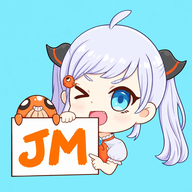
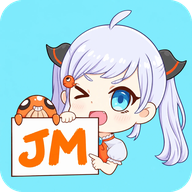
安卓工程并入仓库后从 android/ 构建；全部图标统一成蓝底 JM 娘小圆角；版本 1.1.0

diff --git a/pet_src/make_icons.py b/pet_src/make_icons.py
@@ -2,9 +2,10 @@
 
   python make_icons.py
 
-网页：../web/icon-192.png、icon-512.png、icon-maskable-512.png、apple-touch-icon.png
-安卓：D:\\androidbuild\\jmapp 里的 mipmap-*/ic_launcher*.png，
-      自适应图标的背景色写进 values/ic_launcher_background.xml（取原图角上的天蓝色）
+网页：../web/icon-192.png、icon-512.png（四角小圆角）、icon-maskable-512.png、apple-touch-icon.png（方的，系统自己裁）
+安卓：../android/app/src/main/res/mipmap-*/ic_launcher*.png，四角小圆角。
+      不用自适应图标：那样形状由桌面决定（常被裁成圆形），和电脑版、安装包的圆角方图对不上
+电脑版的 exe、安装包图标由 desktop/build.py 从 icon-512.png 生成，所以也是同一个圆角图
 """
 from pathlib import Path
 
@@ -12,7 +13,9 @@ from PIL import Image, ImageDraw
 
 HERE = Path(__file__).resolve().parent
 WEB = HERE.parent / 'web'
-RES = Path(r'D:\androidbuild\jmapp\app\src\main\res')
+RES = HERE.parent / 'android' / 'app' / 'src' / 'main' / 'res'
+# 圆角半径占边长的比例：小圆角
+RADIUS = 0.12
 
 src = Image.open(HERE / 'icon_src.webp').convert('RGBA')
 # 背景色：四个角取平均，自适应图标和留边的地方都用它，接缝看不出来
@@ -32,7 +35,7 @@ def compose(size, scale=1.0, shape=None):
         if shape == 'circle':
             d.ellipse((0, 0, ss - 1, ss - 1), fill=255)
         else:
-            d.rounded_rectangle((0, 0, ss - 1, ss - 1), radius=ss * 0.2, fill=255)
+            d.rounded_rectangle((0, 0, ss - 1, ss - 1), radius=ss * RADIUS, fill=255)
         out = Image.new('RGBA', (ss, ss), (0, 0, 0, 0))
         out.paste(canvas, (0, 0), mask)
         canvas = out
@@ -40,27 +43,25 @@ def compose(size, scale=1.0, shape=None):
 
 
 # ---- 网页
-compose(192).save(WEB / 'icon-192.png')
-compose(512).save(WEB / 'icon-512.png')
+compose(192, shape='rounded').save(WEB / 'icon-192.png')
+compose(512, shape='rounded').save(WEB / 'icon-512.png')
 # maskable：系统会裁成圆形或圆角，整张缩一点，牌子边角不被裁掉
 compose(512, 0.84).save(WEB / 'icon-maskable-512.png')
 compose(180).save(WEB / 'apple-touch-icon.png')
 
-# ---- 安卓
+# ---- 安卓：只用圆角方图（旧的自适应图标配置删掉）
 DENS = {'mdpi': 1, 'hdpi': 1.5, 'xhdpi': 2, 'xxhdpi': 3, 'xxxhdpi': 4}
 for name, k in DENS.items():
     d = RES / f'mipmap-{name}'
     d.mkdir(parents=True, exist_ok=True)
-    # 自适应图标前景：108dp 画布，桌面只露出中间 72dp；图放到 76dp，只裁掉一圈天蓝色的边，人物更大
-    compose(round(108 * k), 76 / 108).save(d / 'ic_launcher_foreground.png')
-    # 旧系统（Android 8 以下）直接用的整张图标
-    compose(round(48 * k), shape='rounded').save(d / 'ic_launcher.png')
-    compose(round(48 * k), shape='circle').save(d / 'ic_launcher_round.png')
-
-hexbg = '#%02X%02X%02X' % BG[:3]
-(RES / 'values' / 'ic_launcher_background.xml').write_text(f'''<?xml version="1.0" encoding="utf-8"?>
-<resources>
-    <color name="ic_launcher_background">{hexbg}</color>
-</resources>
-''', 'utf-8')
-print('ok', hexbg)
+    img = compose(round(48 * k), shape='rounded')
+    img.save(d / 'ic_launcher.png')
+    img.save(d / 'ic_launcher_round.png')   # 清单里 roundIcon 也指向同一个圆角图
+    (d / 'ic_launcher_foreground.png').unlink(missing_ok=True)
+for old in [RES / 'mipmap-anydpi-v26' / 'ic_launcher.xml', RES / 'mipmap-anydpi-v26' / 'ic_launcher_round.xml',
+            RES / 'values' / 'ic_launcher_background.xml']:
+    old.unlink(missing_ok=True)
+anydpi = RES / 'mipmap-anydpi-v26'
+if anydpi.exists() and not any(anydpi.iterdir()):
+    anydpi.rmdir()
+print('ok')

diff --git a/deploy.py b/deploy.py
@@ -18,6 +18,9 @@ import time
 from pathlib import Path
 
 ROOT = Path(__file__).resolve().parent
+# 安卓外壳工程（Chaquopy + WebView）的源码在仓库的 android/ 里。
+# Gradle 不支持含中文的工程路径（仓库在「JM漫画下载器」下），所以每次先镜像到纯英文的构建目录再编译
+ANDROID_SRC = ROOT / "android"
 ANDROID = Path(r"D:\androidbuild\jmapp")
 APP_MAIN = ANDROID / "app" / "src" / "main"
 
@@ -52,6 +55,7 @@ def sync() -> str:
     省得每次手动加一，也避免 WebView 拿旧缓存。
     """
     step("同步代码")
+    mirror_android()
     py_dir = APP_MAIN / "python"
     py_dir.mkdir(parents=True, exist_ok=True)
     shutil.copy2(ROOT / "server.py", py_dir / "server.py")
@@ -80,6 +84,20 @@ def sync() -> str:
 
     print(f"  server.py + web/（{len(list(web_dst.iterdir()))} 个文件），资源版本 {version}")
     return version
+
+
+def mirror_android() -> None:
+    """android/ → 构建目录：app/src 整个重建（删掉的资源也跟着删），Gradle 配置文件逐个覆盖。
+    构建目录里的 build/、.gradle/ 缓存和 local.properties 保留，增量编译照样快。"""
+    ANDROID.mkdir(parents=True, exist_ok=True)
+    src_dir = ANDROID / "app" / "src"
+    if src_dir.exists():
+        shutil.rmtree(src_dir)
+    shutil.copytree(ANDROID_SRC / "app" / "src", src_dir)
+    for rel in ("build.gradle", "settings.gradle", "gradle.properties", "app/build.gradle"):
+        shutil.copy2(ANDROID_SRC / rel, ANDROID / rel)
+    if (ANDROID_SRC / "local.properties").exists():
+        shutil.copy2(ANDROID_SRC / "local.properties", ANDROID / "local.properties")
 
 
 # ---------------------------------------------------------------- 构建

diff --git a/README.md b/README.md
@@ -110,8 +110,9 @@ python deploy.py
 界面资源的版本号由文件内容算出来，改了自动变，不会出现 WebView 拿旧缓存的问题。
 
 构建工具链装在 `D:\androidbuild`（JDK 21、Android SDK 34、Gradle 8.7、
-Python 3.11），安卓工程在 `D:\androidbuild\jmapp`。安卓外壳工程（Chaquopy + WebView）
-目前不在这个仓库里，这里只有服务端和界面；直接用的话装 Releases 里的 APK 就行。
+Python 3.11），安卓外壳工程（Chaquopy + WebView）在 `android/`。`server.py` 和 `web/`
+由 `deploy.py` 每次同步进去，工程里不重复存。在别的电脑上构建，要改 `deploy.py` 开头的工具链路径、
+`android/app/build.gradle` 里的 `buildPython`，并新建 `android/local.properties` 写上 `sdk.dir`。
 
 ### 安卓版的两个特殊处理
 
